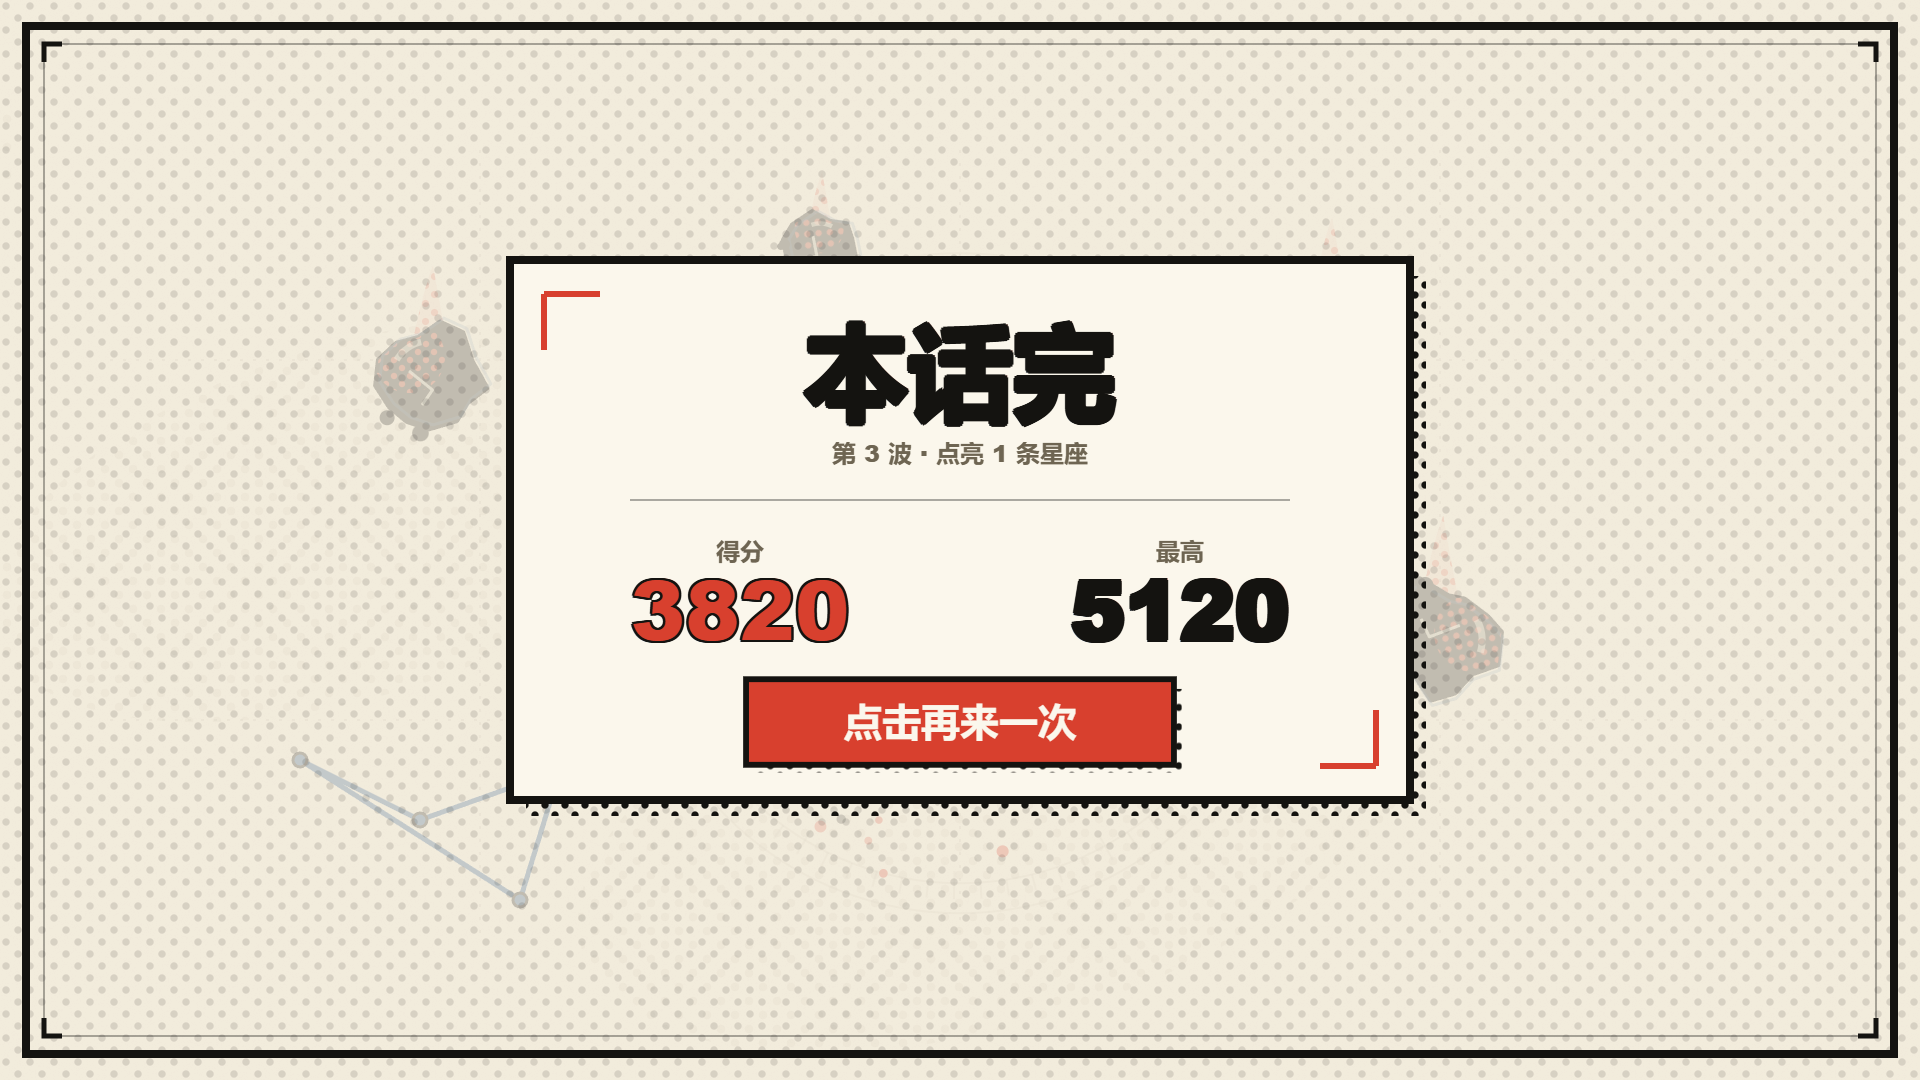
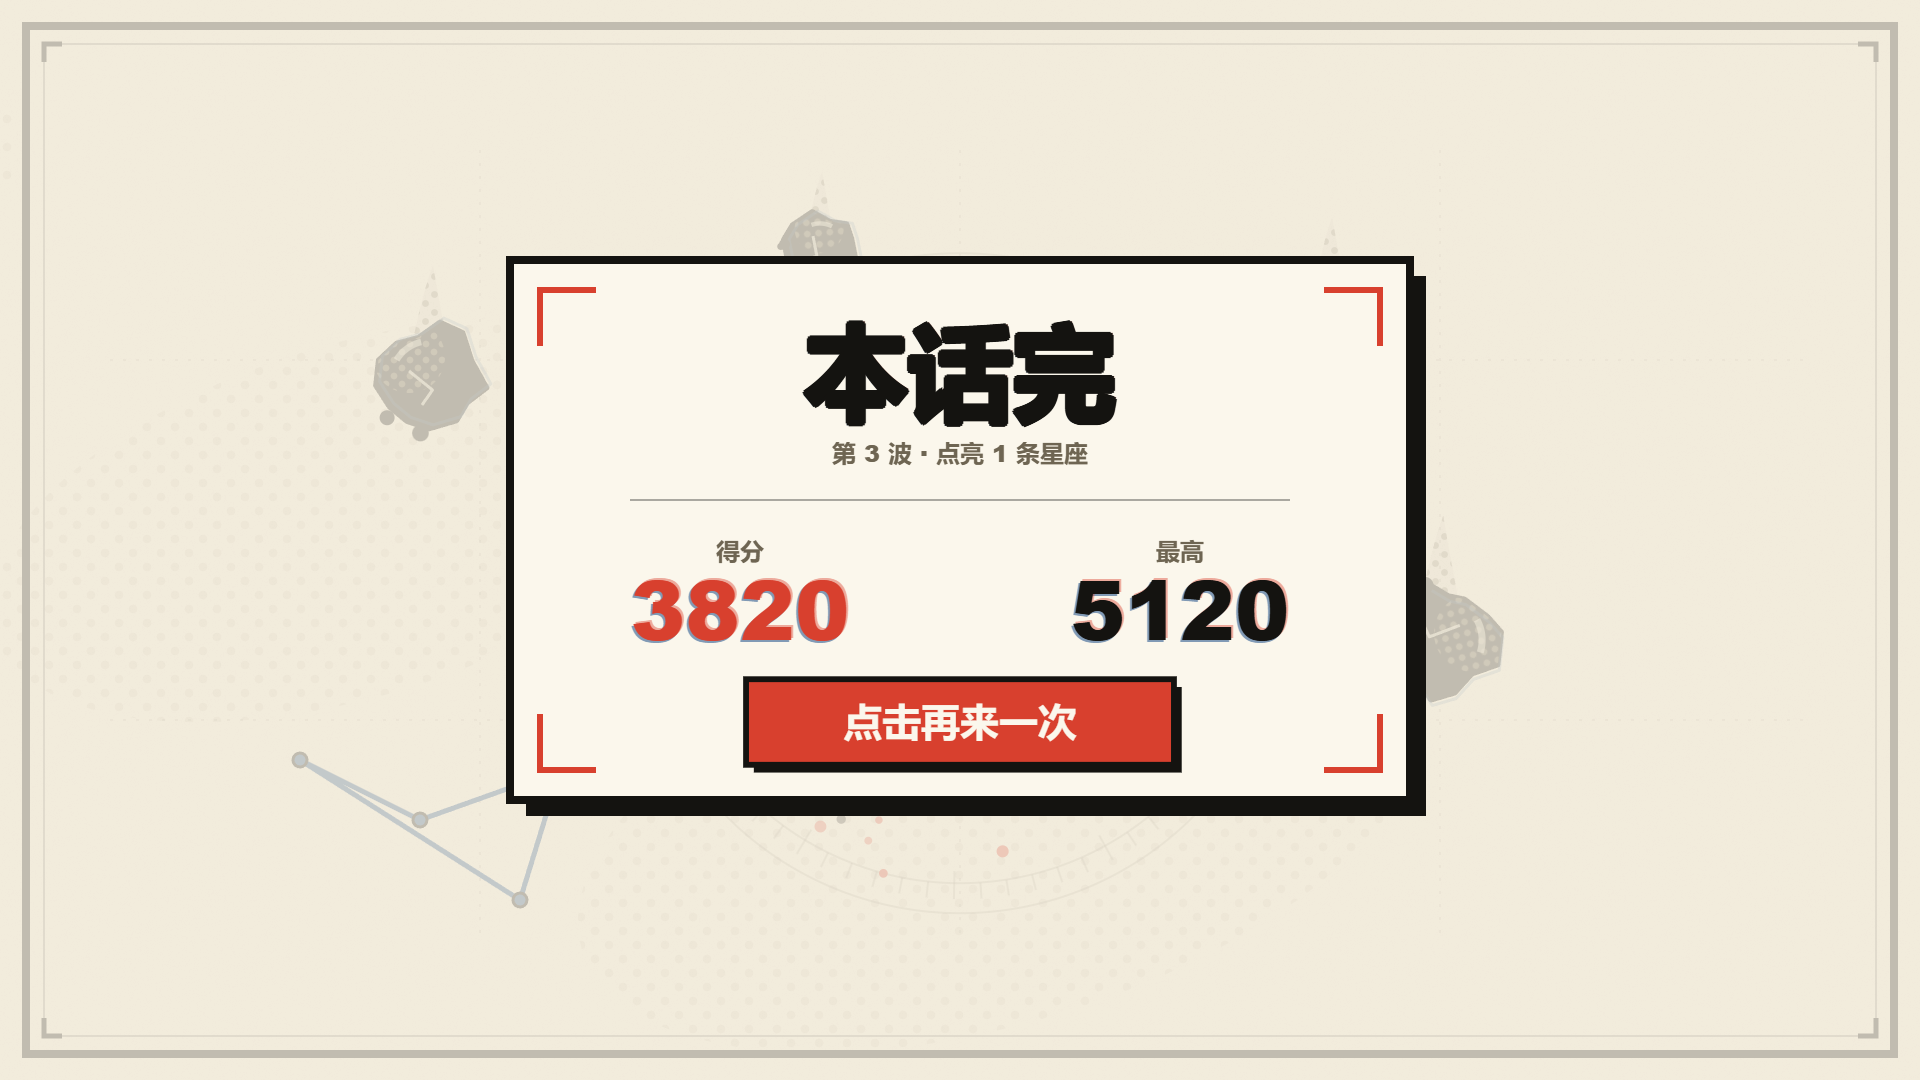
review pass: HUD alignment, ship contrast, colour roles, hard shadows, title composition

diff --git a/js/game.js b/js/game.js
@@ -273,7 +273,7 @@
 
     /* engraved astrolabe, very low contrast, gives the page a centre of gravity */
     g.save();
-    g.strokeStyle = 'rgba(110,101,82,0.16)';
+    g.strokeStyle = 'rgba(110,101,82,0.30)';
     g.lineWidth = 2;
     g.beginPath(); g.arc(W / 2, H * 0.54, 330, 0, SC.TAU); g.stroke();
     g.beginPath(); g.arc(W / 2, H * 0.54, 300, 0, SC.TAU); g.stroke();
@@ -360,7 +360,7 @@
 
       /* burning trail always points straight up, independent of the splat's spin */
       g.save();
-      g.fillStyle = 'rgba(216,64,46,0.13)';
+      g.fillStyle = 'rgba(110,101,82,0.12)';
       g.beginPath();
       g.moveTo(-r.r * 0.5, 0);
       g.quadraticCurveTo(-r.r * 0.18, -r.r * 1.7, r.r * 0.06, -r.r * 2.3);
@@ -368,7 +368,7 @@
       g.closePath();
       g.fill();
       g.globalAlpha = 0.55;
-      g.fillStyle = SC.halftone(g, C.accent, 0.5, 9);
+      g.fillStyle = SC.halftone(g, C.sub, 0.45, 9);
       g.fill();
       g.restore();
 
@@ -379,7 +379,7 @@
       g.save();
       SC.path(g, pts); g.clip();
       g.globalAlpha = 0.75;
-      g.fillStyle = SC.halftone(g, C.accent, 0.5, 8);
+      g.fillStyle = SC.halftone(g, C.sub, 0.55, 8);
       g.beginPath();
       g.arc(-r.r * 0.42, -r.r * 0.46, r.r * 0.72, 0, SC.TAU);
       g.fill();
@@ -452,13 +452,18 @@
       g.restore();
     }
 
-    /* dart body */
+    /* dart body: white card stock with a paper halo so it never sinks into the page */
     var body = [[0, -46], [15, -6], [26, 20], [8, 13], [0, 26], [-8, 13], [-26, 20], [-15, -6]];
-    SC.printShape(g, body, { fill: C.surface, lw: 5, shade: { color: C.sub, density: 0.14, dx: 4, dy: 5 } });
+    g.save();
+    SC.path(g, body);
+    g.fillStyle = C.bg; g.fill();
+    g.lineWidth = 15; g.strokeStyle = C.bg; g.lineJoin = 'round'; g.stroke();
+    g.restore();
+    SC.printShape(g, body, { fill: '#FFFFFF', lw: 6, shade: { color: C.sub, density: 0.12, dx: 4, dy: 5 } });
 
     /* red nose + red wing edges */
     g.beginPath(); g.moveTo(0, -46); g.lineTo(9, -20); g.lineTo(-9, -20); g.closePath();
-    g.fillStyle = C.accent; g.fill(); g.lineWidth = 4; g.strokeStyle = C.ink; g.stroke();
+    g.fillStyle = C.accent2; g.fill(); g.lineWidth = 4; g.strokeStyle = C.ink; g.stroke();
 
     g.save();
     g.globalAlpha = 0.9;
@@ -530,15 +535,19 @@
   }
 
   function drawHUD(g) {
-    /* caption */
-    SC.panel(g, 64, 56, 372, 96, { sx: 8, sy: 8, lw: 5 });
+    /* caption: width follows the text so the right edge is not hollow */
+    g.save();
+    g.font = SC.font(32, 900);
+    var capW = Math.max(300, g.measureText('星图 · 第 ' + G.wave + ' 波').width + 56);
+    g.restore();
+    SC.panel(g, 64, 56, capW, 96, { sx: 8, sy: 8, lw: 5 });
     SC.comicText(g, '星图 · 第 ' + G.wave + ' 波', 88, 104, { size: 32, color: C.ink, lineWidth: 0, ghost: false });
-    SC.comicText(g, 'STAR CHART / 第一话', 88, 136, { size: 17, color: C.sub, lineWidth: 0, ghost: false });
+    SC.comicText(g, 'STAR CHART / 第一话', 88, 136, { size: 18, color: C.sub, lineWidth: 0, ghost: false });
 
     /* score */
     SC.panel(g, W - 470, 56, 406, 136, { sx: -8, sy: 8, lw: 5 });
     SC.comicText(g, 'SCORE', W - 100, 94, { size: 22, color: C.sub, align: 'right', ghost: false, lineWidth: 0 });
-    SC.comicText(g, String(Math.round(G.shownScore)).padStart(6, '0'), W - 96, 166, { size: 78, color: C.ink, align: 'right', lineWidth: 0 });
+    SC.comicText(g, String(Math.round(G.shownScore)), W - 96, 166, { size: 78, color: C.ink, align: 'right', lineWidth: 0 });
 
     /* combo chip */
     if (G.combo >= 2) {
@@ -548,8 +557,8 @@
       g.translate(cx + 150, cy + 32);
       g.scale(cs, cs);
       g.translate(-(cx + 150), -(cy + 32));
-      SC.panel(g, cx, cy, 300, 64, { lw: 5, fill: C.accent, sx: 6, sy: 6 });
-      SC.comicText(g, '×' + mult() + ' 连击', cx + 150, cy + 44, { size: 32, color: C.surface, align: 'center', lineWidth: 0, ghost: false });
+      SC.panel(g, cx, cy, 406, 64, { lw: 5, fill: C.accent, sx: 6, sy: 6 });
+      SC.comicText(g, '×' + mult() + ' 连击', cx + 203, cy + 44, { size: 32, color: C.surface, align: 'center', lineWidth: 0, ghost: false });
       g.restore();
     }
 
@@ -565,7 +574,7 @@
       g.lineWidth = 4; g.strokeStyle = C.ink; g.stroke();
       g.restore();
     }
-    SC.comicText(g, '生命', 84, 1042, { size: 17, color: C.sub, outline: false, ghost: false });
+    SC.comicText(g, '生命', 84, 1022, { size: 18, color: C.sub, outline: false, ghost: false });
 
     /* slow meter */
     var mx = W / 2 - 240, my = 966, mw = 480, mh = 40;
@@ -576,11 +585,11 @@
     g.fillStyle = SC.halftone(g, C.accent2, G.slow.active ? 0.62 : 0.4, 10);
     g.fillRect(mx, my, mw, mh);
     g.restore();
-    SC.comicText(g, '缓速  空格', mx + mw / 2, my - 14, { size: 20, color: C.ink, align: 'center', lineWidth: 0, ghost: false });
+    SC.comicText(g, '空格 缓速', mx + mw / 2, my - 14, { size: 21, color: C.ink, align: 'center', lineWidth: 0, ghost: false });
     if (G.slow.lock > 0) SC.comicText(g, '过热', mx + mw / 2, my + 30, { size: 18, color: C.accent, align: 'center', outline: false, ghost: false });
 
     /* best */
-    SC.comicText(g, '最高 ' + G.best, W - 92, 1036, { size: 20, color: C.sub, align: 'right', lineWidth: 0, ghost: false });
+    SC.comicText(g, '最高 ' + G.best, W - 92, 1020, { size: 22, color: C.sub, align: 'right', lineWidth: 0, ghost: false });
   }
 
   function drawBanner(g) {
@@ -590,12 +599,12 @@
     var inP = SC.clamp(k / 0.16, 0, 1), outP = SC.clamp((k - 0.78) / 0.22, 0, 1);
     var bx = -260 + (W / 2 + 260) * SC.expoOut(inP) + outP * 1500;
     g.save();
-    g.translate(bx, 180);
-    SC.panel(g, -260, 0, 520, 140, { sx: 10, sy: 10, lw: 6 });
+    g.translate(bx, 150);
+    SC.panel(g, -260, 0, 520, 118, { sx: 10, sy: 10, lw: 6 });
     g.fillStyle = C.accent;
-    g.fillRect(-260, 0, 14, 140);
-    SC.comicText(g, b.text, -218, 78, { size: 58, color: C.ink, lineWidth: 0 });
-    SC.comicText(g, b.sub, -216, 118, { size: 24, color: C.accent, outline: false, ghost: false });
+    g.fillRect(-260, 0, 14, 118);
+    SC.comicText(g, b.text, -216, 68, { size: 52, color: C.ink, lineWidth: 0 });
+    SC.comicText(g, b.sub, -214, 102, { size: 22, color: C.accent, outline: false, ghost: false });
     g.restore();
   }
 
@@ -629,14 +638,14 @@
     /* constellation engraving, upper right */
     g.save();
     g.strokeStyle = C.accent2; g.lineWidth = 4; g.lineCap = 'round';
-    var cp = [[1318, 276], [1436, 232], [1552, 306], [1490, 410], [1362, 386], [1318, 276]];
+    var cp = [[1163, 263], [1316, 206], [1467, 302], [1387, 437], [1220, 406], [1163, 263]];
     g.beginPath();
     cp.forEach(function (p, i) { i ? g.lineTo(p[0], p[1]) : g.moveTo(p[0], p[1]); });
     g.stroke();
     cp.forEach(function (p) { g.beginPath(); g.arc(p[0], p[1], 7, 0, SC.TAU); g.fillStyle = C.accent2; g.fill(); g.lineWidth = 3; g.strokeStyle = C.ink; g.stroke(); g.lineWidth = 4; });
     g.restore();
     for (var k = 0; k < 7; k++) {
-      SC.star4(g, 1480 + Math.sin(k * 2.3) * 250, 300 + Math.cos(k * 1.9) * 190, 8 + (k % 3) * 3, t * 0.2 + k, C.accent, 3);
+      SC.star4(g, 1310 + Math.sin(k * 2.3) * 240, 320 + Math.cos(k * 1.9) * 180, 8 + (k % 3) * 3, t * 0.2 + k, C.accent, 3);
     }
 
     /* caption panel */
@@ -660,9 +669,9 @@
     g.scale(pulse, pulse);
     g.translate(-(104 + 250), -(700 + 52));
     SC.panel(g, 104, 700, 500, 104, { lw: 6, fill: C.accent });
-    SC.comicText(g, '点击开始', 354, 768, { size: 46, color: C.surface, align: 'center', lineWidth: 5 });
+    SC.comicText(g, '点击开始', 354, 772, { size: 56, color: C.surface, align: 'center', lineWidth: 2 });
     g.restore();
-    SC.comicText(g, '鼠标 / 触屏移动　空格 缓速　M 静音　P 暂停', 108, 858, { size: 21, color: C.sub, outline: false, ghost: false });
+    SC.comicText(g, '鼠标 / 触屏移动　空格 缓速　M 静音　P 暂停', 108, 866, { size: 22, color: C.sub, outline: false, ghost: false });
 
     /* best */
     if (G.best > 0) {
@@ -681,9 +690,6 @@
     g.globalAlpha = 0.78;
     g.fillStyle = C.bg;
     g.fillRect(0, 0, W, H);
-    g.globalAlpha = 0.12;
-    g.fillStyle = SC.halftone(g, C.ink, 0.3, 12);
-    g.fillRect(0, 0, W, H);
     g.restore();
 
     var pw = 900, ph = 540, px = (W - pw) / 2, py = (H - ph) / 2 - 10;
@@ -691,10 +697,12 @@
     /* corner marks inside the panel */
     g.save();
     g.strokeStyle = C.accent; g.lineWidth = 6;
-    g.beginPath(); g.moveTo(px + 34, py + 34); g.lineTo(px + 90, py + 34); g.stroke();
-    g.beginPath(); g.moveTo(px + 34, py + 34); g.lineTo(px + 34, py + 90); g.stroke();
-    g.beginPath(); g.moveTo(px + pw - 34, py + ph - 34); g.lineTo(px + pw - 90, py + ph - 34); g.stroke();
-    g.beginPath(); g.moveTo(px + pw - 34, py + ph - 34); g.lineTo(px + pw - 34, py + ph - 90); g.stroke();
+    var cm = 30, cg = 56;
+    [[px + cm, py + cm, 1, 1], [px + pw - cm, py + cm, -1, 1], [px + cm, py + ph - cm, 1, -1], [px + pw - cm, py + ph - cm, -1, -1]].forEach(function (c) {
+      g.beginPath();
+      g.moveTo(c[0] + c[2] * cg, c[1]); g.lineTo(c[0], c[1]); g.lineTo(c[0], c[1] + c[3] * cg);
+      g.stroke();
+    });
     g.restore();
 
     SC.comicText(g, '本话完', W / 2, py + 150, { size: 104, color: C.ink, align: 'center', lineWidth: 6 });
@@ -706,9 +714,9 @@
     g.restore();
 
     SC.comicText(g, '得分', px + 230, py + 300, { size: 24, color: C.sub, align: 'center', outline: false, ghost: false });
-    SC.comicText(g, String(G.score), px + 230, py + 380, { size: 82, color: C.accent, align: 'center', lineWidth: 5 });
+    SC.comicText(g, String(G.score), px + 230, py + 380, { size: 82, color: C.accent, align: 'center', lineWidth: 0 });
     SC.comicText(g, '最高', px + pw - 230, py + 300, { size: 24, color: C.sub, align: 'center', outline: false, ghost: false });
-    SC.comicText(g, String(G.best), px + pw - 230, py + 380, { size: 82, color: C.ink, align: 'center', lineWidth: 5 });
+    SC.comicText(g, String(G.best), px + pw - 230, py + 380, { size: 82, color: C.ink, align: 'center', lineWidth: 0 });
 
     var pulse = 1 + Math.sin(G.t * 3.2) * 0.03;
     g.save();
@@ -746,6 +754,7 @@
     drawPaper(ctx);
     if (G.state !== 'title') drawChart(ctx);
     if (G.state === 'title') {
+      drawFrame(ctx);
       drawTitle(ctx);
     } else {
       drawStars(ctx);
@@ -753,12 +762,12 @@
       drawParts(ctx);
       drawShip(ctx);
       drawPops(ctx);
+      drawFrame(ctx);
       if (G.state !== 'over') { drawHUD(ctx); drawBanner(ctx); }
       if (G.state === 'over') drawOver(ctx);
       if (G.paused) drawPause(ctx);
     }
     drawSlowOverlay(ctx);
-    drawFrame(ctx);
     ctx.restore();
   }
 

diff --git a/js/core.js b/js/core.js
@@ -214,14 +214,9 @@
   SC.panel = function (ctx, x, y, w, h, opt) {
     opt = opt || {};
     ctx.save();
-    /* shadow plate */
-    ctx.fillStyle = halftonePattern(ctx, SC.C.ink, 0.42, 10);
-    ctx.save();
-    ctx.beginPath();
-    ctx.rect(x + (opt.sx == null ? 10 : opt.sx), y + (opt.sy == null ? 10 : opt.sy), w, h);
-    ctx.clip();
-    ctx.fillRect(x + 10, y + 10, w + 40, h + 40);
-    ctx.restore();
+    /* hard ink shadow, the way a printed card sits on the page */
+    ctx.fillStyle = opt.shadow || SC.C.ink;
+    ctx.fillRect(x + (opt.sx == null ? 8 : opt.sx), y + (opt.sy == null ? 8 : opt.sy), w, h);
     ctx.beginPath();
     ctx.rect(x, y, w, h);
     ctx.fillStyle = opt.fill || SC.C.surface;
